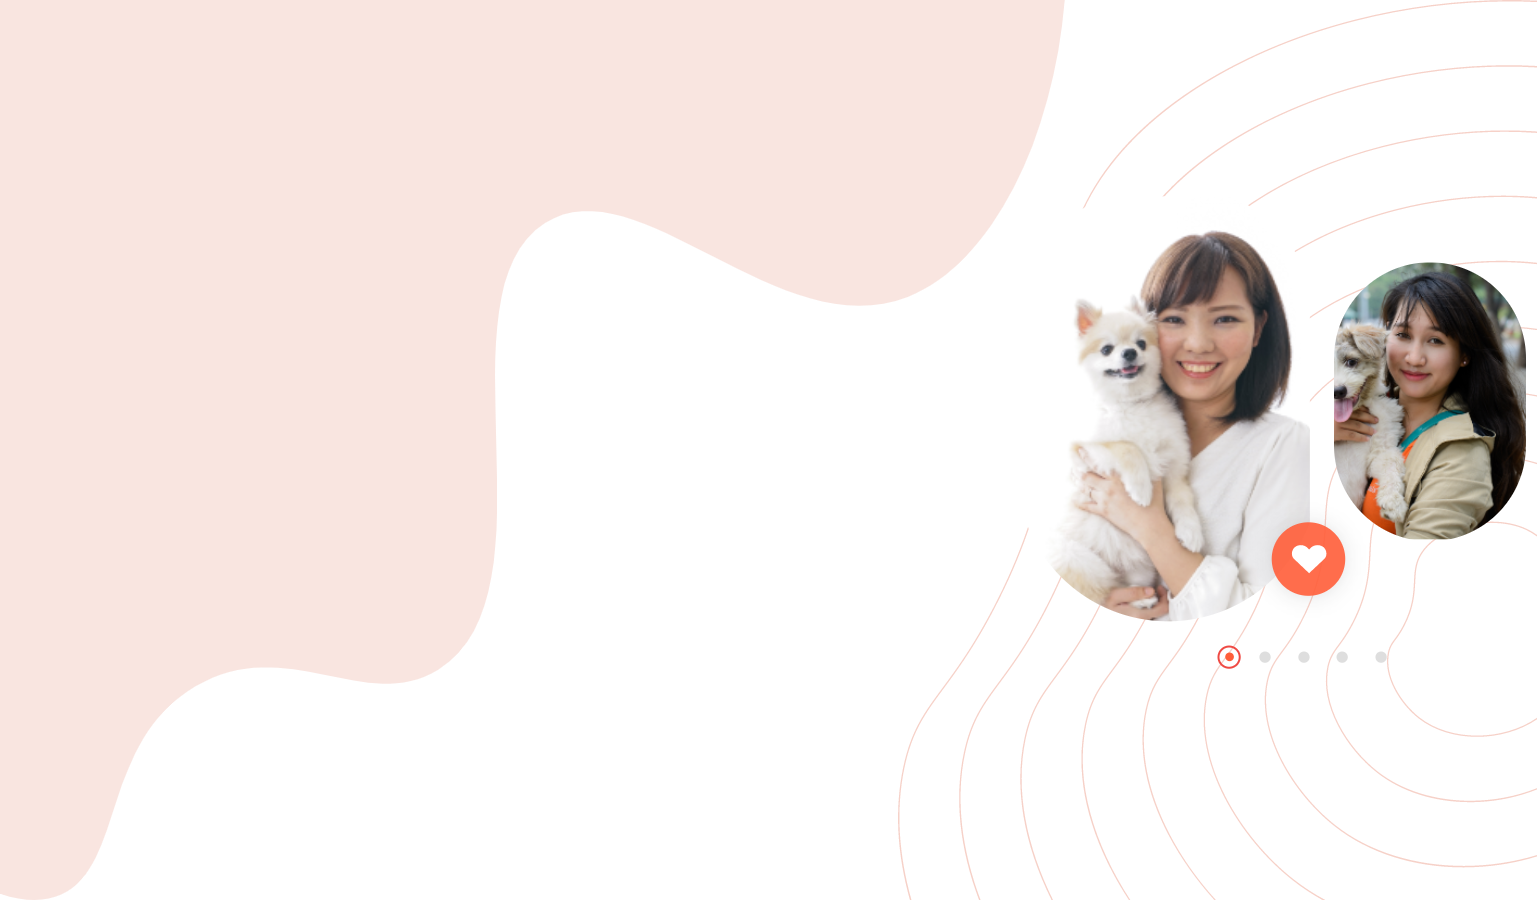
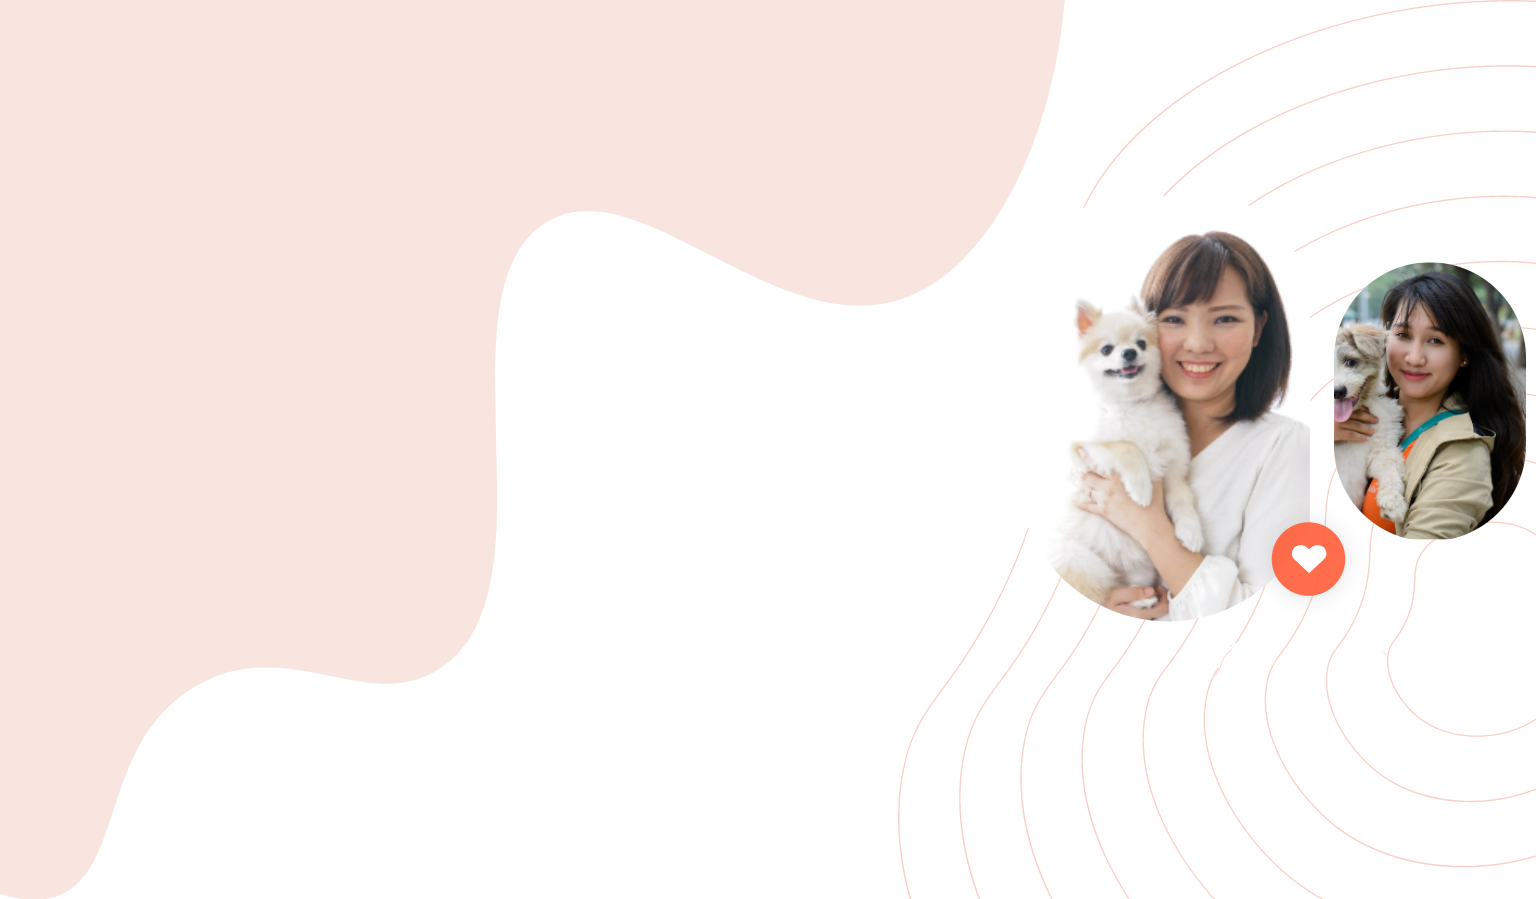
changes

diff --git a/src/styles.css b/src/styles.css
@@ -621,7 +621,7 @@ header .badge-danger {
 }
 
 .slide-1 {
-  background-image: url(assets/images/hero-bg.png);
+  background-image: url(assets/images/hero-bg-original.png);
 }
 
 .slide-2 {
@@ -1293,7 +1293,7 @@ footer .icon-mail {
 }
 
 .about-section h2 {
-  font-size: 58px;
+  font-size: 50px;
 }
 
 .about-section h4 {
@@ -3572,7 +3572,7 @@ header.sticky .logo img {
 
   .slide-1 {
     background-image: url(assets/images/hero-tablet_1_1000x1200.png);
-    background-position: 37% 20% !important;
+    background-position: 41% 20% !important;
   }
 
   .hero-section .item.slide-2,
@@ -3632,6 +3632,9 @@ header.sticky .logo img {
 }
 
 @media only screen and (max-width: 767px) {
+  .hide-on-small {
+    display: none;
+  }
   footer h6 {
     margin-bottom: 10px;
     margin-top: 30px;
@@ -3902,10 +3905,11 @@ header.sticky .logo img {
   .slide-2 {
     background-image: url(assets/images/slide-mb-2.png);
     text-align: left;
-    padding-top: 250px !important;
+    padding-top: 270px !important;
     background-size: contain !important;
     background-repeat: no-repeat;
     padding-bottom: 70px;
+    background-position: 10% -15% !important;
   }
 
   .slide-3 {
@@ -4045,7 +4049,7 @@ header.sticky .logo img {
 
   .hero-section .item.slide-1 {
     /* height: 790px; */
-    height: 675px;
+    height: 750px;
   }
 
   .slide-2,
@@ -4509,3 +4513,7 @@ header.sticky .logo img {
   padding: 15px;
   padding-left: 130px;
 }
+
+/* .owl-item.ng-tns-c37-0.ng-trigger.ng-trigger-autoHeight.ng-star-inserted {
+  margin-right: 0 !;
+} */

diff --git a/src/app/components/pages/home/home.component.html b/src/app/components/pages/home/home.component.html
@@ -36,7 +36,7 @@
                         <hr />
                         <p>{{'home.Herosection4' | translate}}</p>
                      </div>
-                     <div class="col-xl-5">
+                     <div class="col-xl-5" [ngClass]="{'hide-on-small': isSmallScreen()}">
                         <p>
                            {{ 'home.Herosection5' | translate }}
                         </p>
@@ -163,8 +163,8 @@
                </h2>
                <p class="sub-heading mb-5 wow fadeInUp" data-wow-delay="0.4s">
                   {{ 'home.Latestproduct1' | translate }}
-                  <br class="d-none d-md-block mb-5" />
-                  {{ 'home.Latestproduct2' | translate }}
+                  <!-- <br class="d-none d-md-block mb-5" />
+                  {{ 'home.Latestproduct2' | translate }} -->
                </p>
             </div>
          </div>

diff --git a/src/app/components/pages/home/home.component.ts b/src/app/components/pages/home/home.component.ts
@@ -16,11 +16,11 @@ export class HomeComponent implements OnInit {
   srcIcon: string = './assets/images/icon-bg.png'
 
   bannerSliderOptions: OwlOptions = {
-    margin: 15,
+    margin: 0,
     loop: true,
     autoplay: true,
     autoplayHoverPause: false,
-    mouseDrag: false,
+    mouseDrag: true,
     dots: false,
     autoplayTimeout: 6000,
     autoplaySpeed: 4000,
@@ -172,5 +172,9 @@ export class HomeComponent implements OnInit {
 
   mouseEnter() {
     console.log("test")
+  }
+
+  isSmallScreen() {
+    return window.innerWidth <= 767;
   }
 }

diff --git a/src/assets/css/style.css b/src/assets/css/style.css
@@ -618,7 +618,7 @@ header .badge-danger {
 }
 
 .slide-1 {
-  background-image: url(../../assets/images/hero-bg.png);
+  background-image: url(../../assets/images/hero-bg-original.png);
 }
 
 .slide-2 {
@@ -630,7 +630,7 @@ header .badge-danger {
 }
 
 .main-heading {
-  font-size: 50px;
+  font-size: 40px;
   line-height: 76px;
   font-weight: 800;
   color: #1f1f39;
